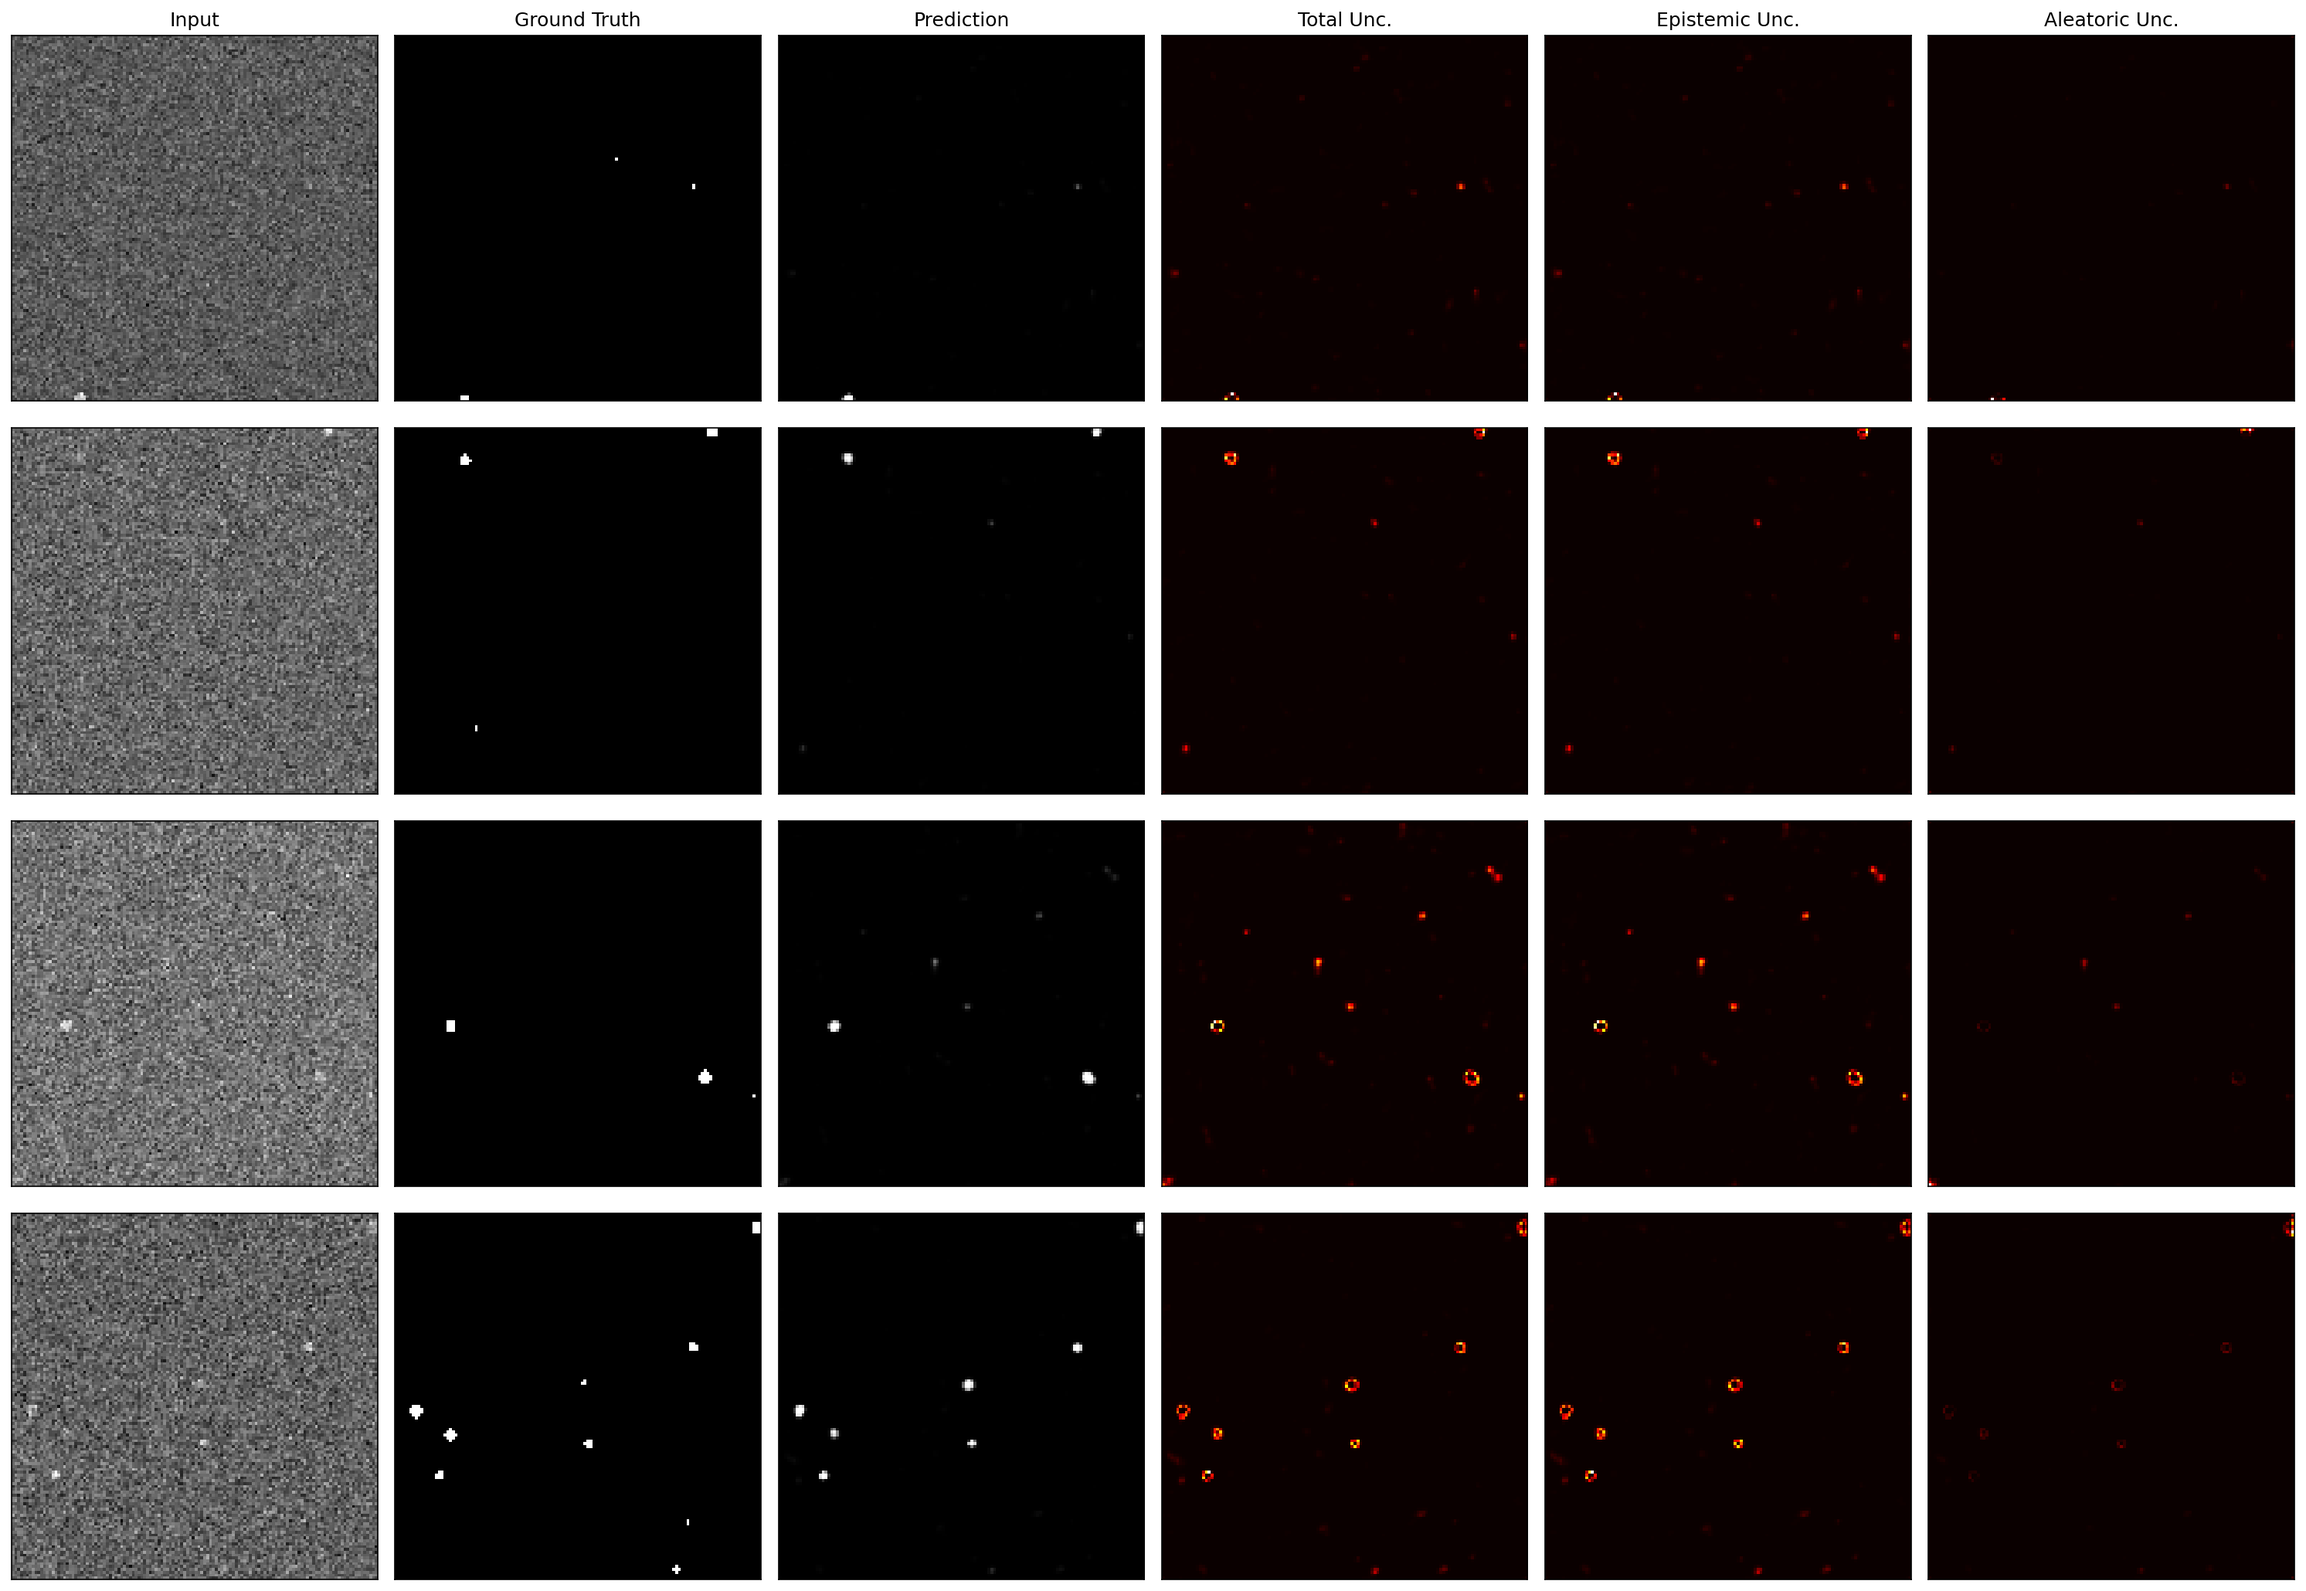
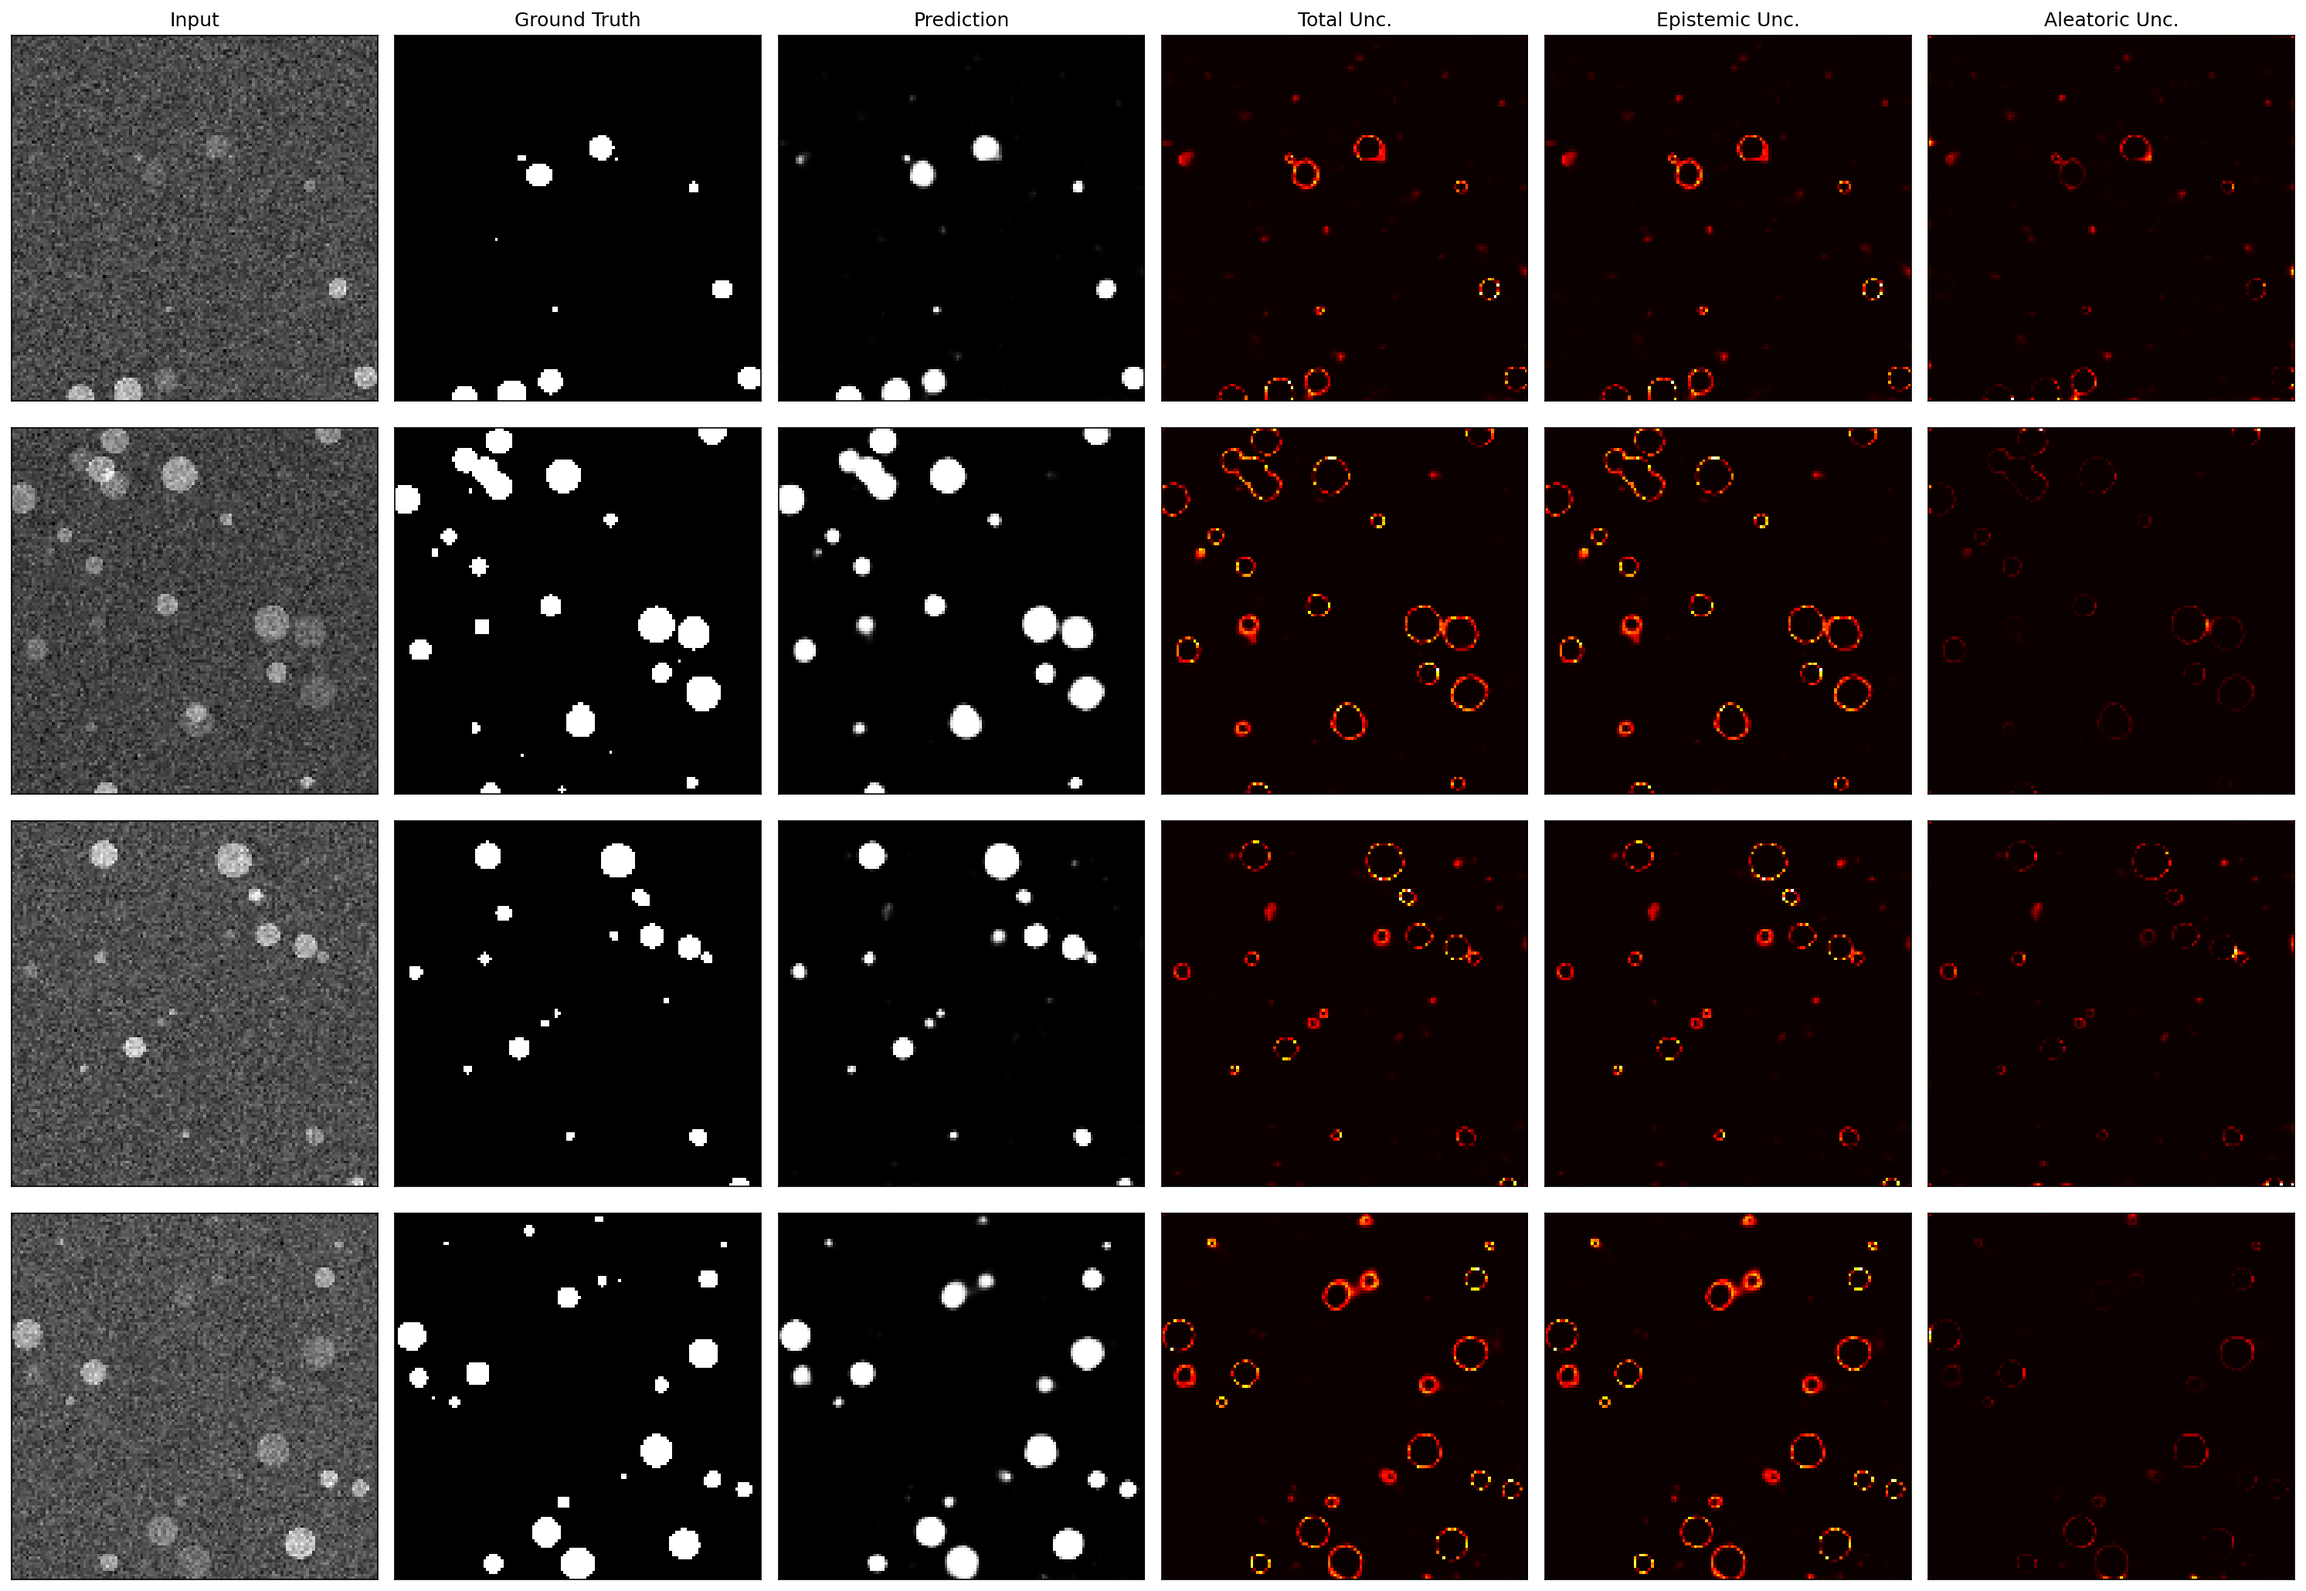
Increase blob count (10-30) and size range (2-50px), regenerate results
Updated generate_blob_images.py:
- n_blobs: 3-10 -> 10-30
- diameter: 2-20 -> 2-50 pixels

Much richer visual results with larger, more varied blobs:
- 782 matched blobs, 250 missed (mostly faint small ones)
- Mean blob IoU: 0.836, Pixel IoU: 0.892
- Uncertainty maps now show clear ring patterns at blob boundaries
- Boundary uncertainty visualization shows model unsure at edges
- Object confidence curve tracks oracle well

https://claude.ai/code/session_01PLh7e4Z6N39ijonJ4wvgUC

diff --git a/generate_blob_images.py b/generate_blob_images.py
@@ -33,15 +33,15 @@ def generate_blob_images(N, save_dir="generated_data", seed=None):
         background_value = rng.normal(100, 10)
         image = np.full((H, W), background_value, dtype=np.float64)
 
-        # Random number of blobs: 3-10
-        n_blobs = rng.integers(3, 11)
+        # Random number of blobs: 10-30
+        n_blobs = rng.integers(10, 31)
         masks = np.zeros((H, W, n_blobs), dtype=np.uint8)
 
         # Precompute coordinate grids
         yy, xx = np.mgrid[:H, :W]
 
         for b in range(n_blobs):
-            diameter = rng.integers(2, 21)
+            diameter = rng.integers(2, 51)
             radius = diameter / 2.0
             cy = rng.integers(0, H)
             cx = rng.integers(0, W)
